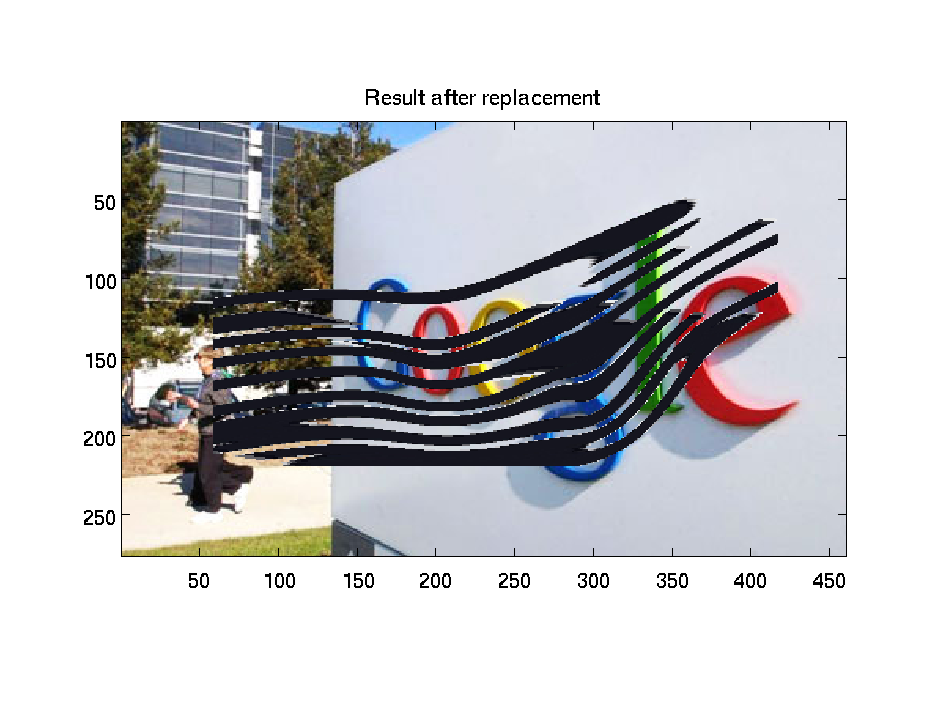
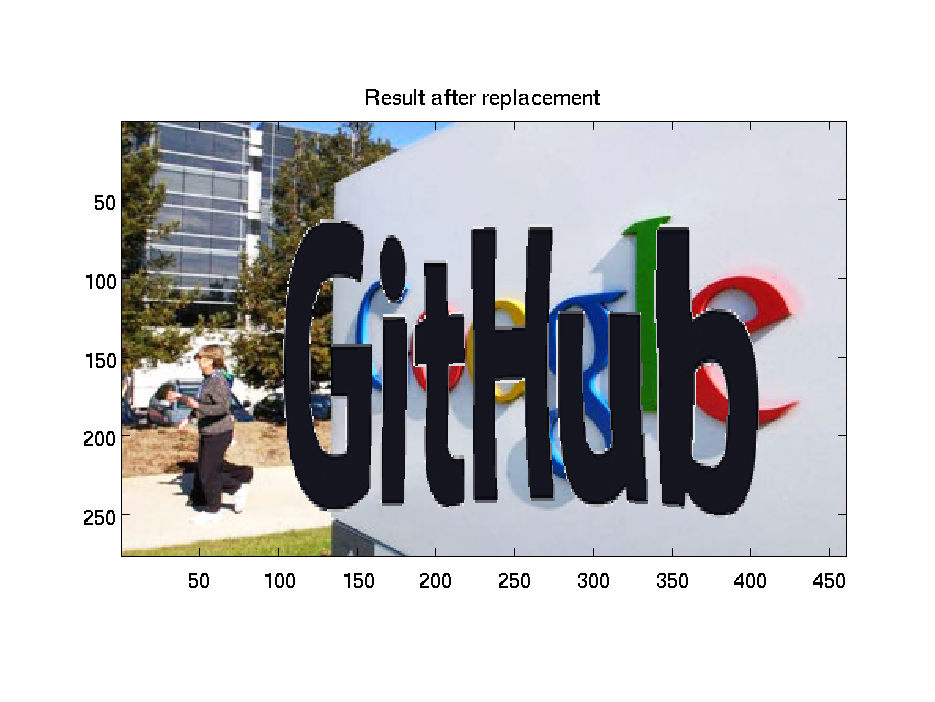
bb bug fixed to add pyramid blending

Changed region(s): [[0.2171, 0.2692, 0.8374, 0.7479]]

diff --git a/code/utils/mapcpt.m b/code/utils/mapcpt.m
@@ -10,12 +10,15 @@ end
 % Compute the transform from reference image to new image
 [ulPtRef, widthRef, ~] = imbbox(Iref, []);
 [ulPtNew, widthNew, ~] = imbbox(Inew, []);
+
 homo_coord = @(pt, width) ...
     [bsxfun(@plus, pt', bsxfun(@times, width', [0 1 1; 0 0 1])); 1 1 1];
-newPts = homo_coord(ulPtNew, widthNew);
-refPts = homo_coord(ulPtRef, widthRef);
-Tf     = newPts / refPts;
-cpt2 = Tf * [cpt1; ones(1, size(cpt1, 2))];
+newPts     = homo_coord(ulPtNew, widthNew);
+refPts     = homo_coord(ulPtRef, widthRef);
+Tf         = newPts / refPts;
+
+cpt2       = Tf * [cpt1; ones(1, size(cpt1, 2))];
+cpt2(3, :) = [];
 
 % Output
 if nargout == 2
@@ -32,12 +35,14 @@ end
 figure();
 subplot(1,2,1);
 imshow(Iref);
+plot_bbox(ulPtRef, widthRef, Iref);
 hold on;
 h_cpt1 = plot(cpt1(1,:), cpt1(2,:), '+');
 set(h_cpt1, 'MarkerSize', 5, 'LineWidth', 2);
 hold off;
 subplot(1,2,2);
 imshow(Inew);
+plot_bbox(ulPtNew, widthNew, Inew);
 hold on;
 h_cpt2 = plot(cpt2(1,:), cpt2(2,:), '+');
 set(h_cpt2, 'MarkerSize', 5, 'LineWidth', 2);

diff --git a/code/utils/load_images.m b/code/utils/load_images.m
@@ -47,8 +47,12 @@ end
 [rRef, cRef, ~] = size(Iref);
 [rNew, cNew, ~] = size(Inew);
 if rRef < rNew || cRef < cNew
-    Inew = imresize(Inew, min(rRef / rNew, cRef / cNew));
+    Inew = imresize(Inew, [rRef / rNew /1.2, cRef / cNew / 1.2]);
 end
+Inew = padarray(Inew, floor([(rRef-rNew) / 2, (cRef - cNew) / 2]), 'both', 'replicate');
+% if rRef < rNew || cRef < cNew
+%     Inew = imresize(Inew, min(rRef / rNew, cRef / cNew));
+% end
 
 I = I(1 : Icount);
 fprintf('Load %d images. \n', Icount);

diff --git a/code/script_logo_replacement.m b/code/script_logo_replacement.m
@@ -62,7 +62,7 @@ for imIdx = 1 : numel(Iall)
         fig_save(h1, fullfile(outputDir, sprintf('bb_ransac_img%02d', imIdx)), 'png');
     end
     
-    p1New = mapcpt(Iref, Inew, p1, verbose);
+    p1New = mapcpt(Iref, Inew, p1);
     [Iout{imIdx}, h2] = logo_replace(Iall{imIdx}, Inew, tpsX, tpsY, p1New(:, inlierInd), p2(:, inlierInd), verbose);
     fig_save(h2, fullfile(outputDir, sprintf('bb_replace_img%02d', imIdx)), 'png');
 end
